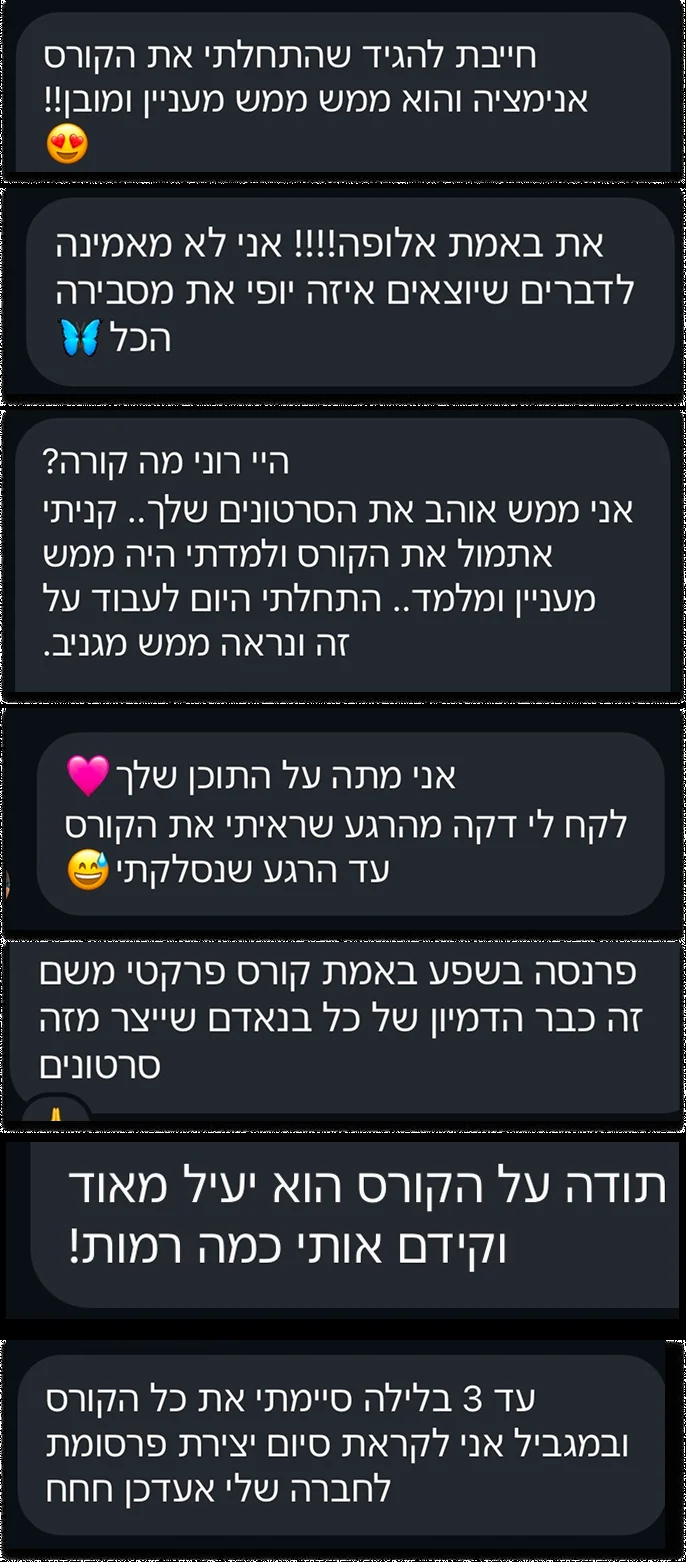
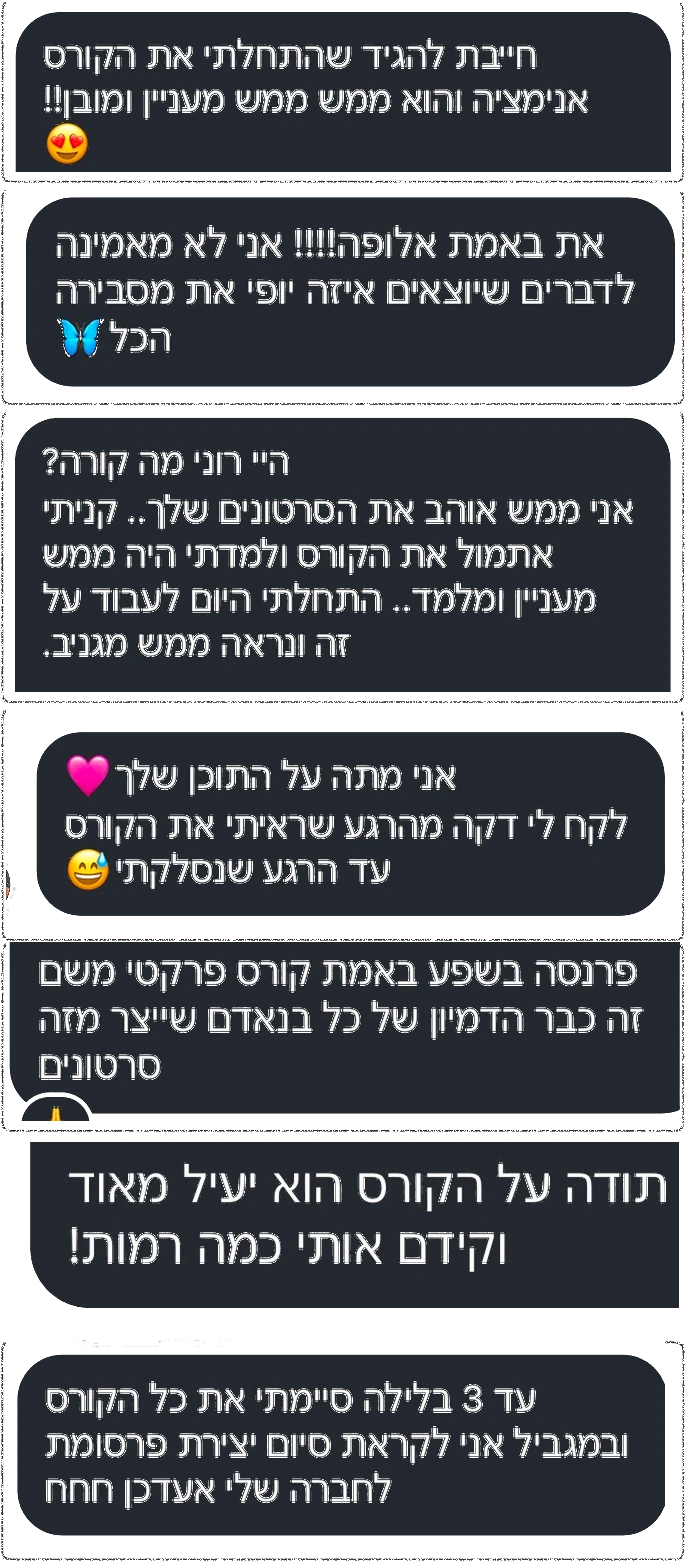
index2: make testimonial screenshots transparent (drop black bands/bg so cream site shows through); remove img border-radius

diff --git a/index2.css b/index2.css
@@ -332,7 +332,7 @@ section{padding-block:clamp(52px,7vw,80px)}
   background:transparent; border-radius:0; padding:0; box-shadow:none;
   display:flex; align-items:center; justify-content:center;
 }
-.testimonial-card img{width:100%; max-width:100%; border-radius:16px}
+.testimonial-card img{width:100%; max-width:100%}
 .t-rot-a,.t-rot-b,.t-rot-c{transform:none}
 .testimonials-more{text-align:center; margin-top:26px}
 .gallery-cta{text-align:center; margin-top:36px}
